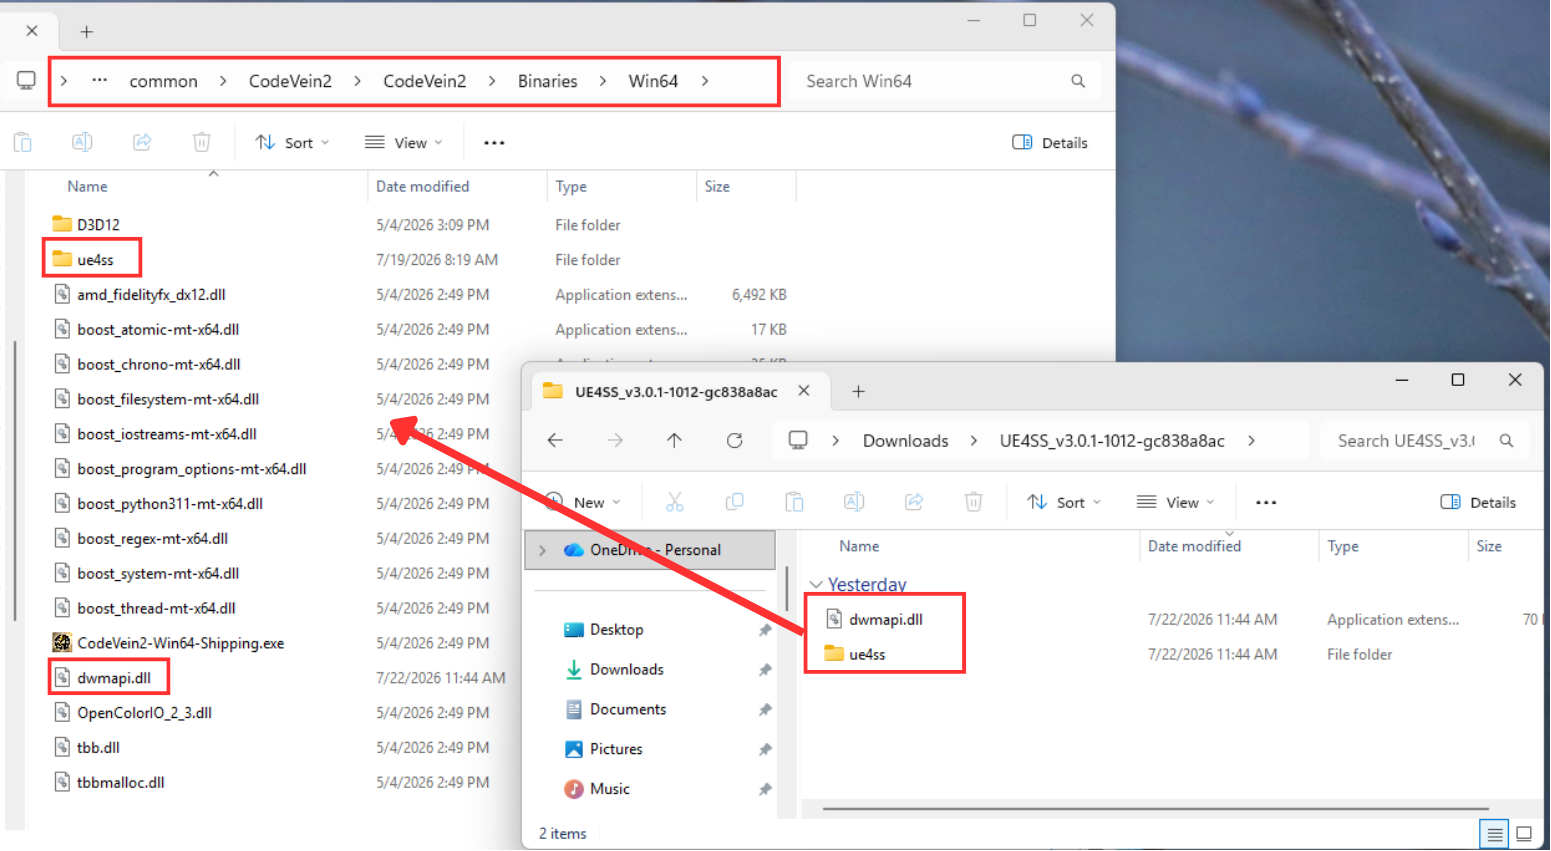
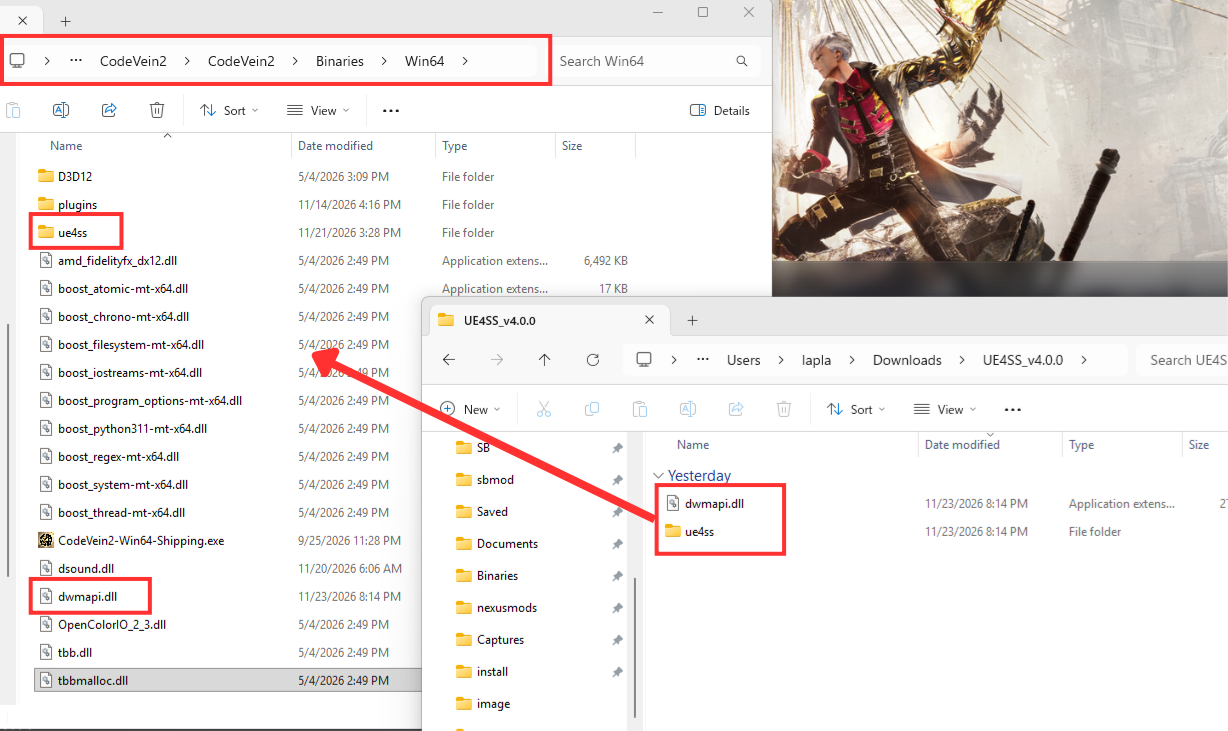
Update guide and troubleshooting for UE4SS release v4.0.0
- Main guide step 1: download UE4SS_v4.0.0.zip from the v4.0.0 release
  instead of the experimental v3.0.1-1012 archive, with new screenshots.
- Troubleshooting: merge the two version checks into a single
  "release v4.0.0" check and renumber the remaining checks.
- Add the v4.0.0 release screenshots and refresh the copy-files image.

diff --git a/docs/troubleshoot/index.html b/docs/troubleshoot/index.html
@@ -188,42 +188,32 @@
   <nav class="toc">
     <h2>Checklist</h2>
     <ol>
-      <li><a href="#check1">Are you using the experimental-latest build of UE4SS?</a></li>
-      <li><a href="#check2">Is the version exactly <code>UE4SS_v3.0.1-1012-gc838a8ac.zip</code>?</a></li>
-      <li><a href="#check3">Are <code>dwmapi.dll</code> and the <code>ue4ss</code> folder in the right place?</a></li>
-      <li><a href="#check4">Is <code>CheatManagerEnablerMod</code> set to <code>0</code> in <code>mods.txt</code>?</a></li>
-      <li><a href="#check5">Does each mod have its own folder under <code>Mods</code>?</a></li>
+      <li><a href="#check1">Have you installed the UE4SS release build v4.0.0?</a></li>
+      <li><a href="#check2">Are <code>dwmapi.dll</code> and the <code>ue4ss</code> folder in the right place?</a></li>
+      <li><a href="#check3">Is <code>CheatManagerEnablerMod</code> set to <code>0</code> in <code>mods.txt</code>?</a></li>
+      <li><a href="#check4">Does each mod have its own folder under <code>Mods</code>?</a></li>
     </ol>
   </nav>
 
   <section class="step" id="check1">
-    <h2><span class="step-num">1</span>Are you using the experimental-latest build?</h2>
+    <h2><span class="step-num">1</span>Have you installed UE4SS release v4.0.0?</h2>
     <ul class="substeps">
-      <li>UE4SS mods for Code Vein II require the <strong>experimental-latest</strong> build of UE4SS. The regular stable release will not work.</li>
-      <li>The experimental builds are listed on the <strong>UE4SS Experimental Release Archive</strong> page:<br>
-        <a class="link" href="https://github.com/UE4SS-RE/RE-UE4SS/releases#release-experimental-latest" target="_blank" rel="noopener">https://github.com/UE4SS-RE/RE-UE4SS/releases#release-experimental-latest</a>
+      <li>UE4SS mods for Code Vein II require the <strong>release</strong> build <strong>v4.0.0</strong>. Check that the archive you installed was <code>UE4SS_v4.0.0.zip</code>, downloaded from the <strong>v4.0.0</strong> release:<br>
+        <a class="link" href="https://github.com/UE4SS-RE/RE-UE4SS/releases" target="_blank" rel="noopener">https://github.com/UE4SS-RE/RE-UE4SS/releases</a>
       </li>
     </ul>
+    <figure>
+      <img src="../images/01A-2_UE4SS_v4_Assets_2026-11-24%20071802.png" alt="The expanded Assets list of the v4.0.0 release on GitHub, with UE4SS_v4.0.0.zip at the top of the list of files.">
+      <figcaption>From the <strong>Assets</strong> list of the v4.0.0 release, the correct file is <code>UE4SS_v4.0.0.zip</code>.</figcaption>
+    </figure>
+    <div class="callout">
+      <strong>Important:</strong> <code>zDEV-UE4SS_v4.0.0.zip</code> and <strong>Source code (zip)</strong> will not work, and neither will an experimental build.
+    </div>
     <p class="answer"><strong>If not:</strong> reinstall by following the <a class="link" href="../">installation guide</a>.</p>
   </section>
 
   <section class="step" id="check2">
-    <h2><span class="step-num">2</span>Is the version exactly v3.0.1-1012?</h2>
-    <ul class="substeps">
-      <li>Check that the archive you installed was <code>UE4SS_v3.0.1-1012-gc838a8ac.zip</code>.</li>
-      <li>Some mods only run on this exact build, so a newer experimental build is not a safe substitute.</li>
-    </ul>
-    <figure>
-      <img src="../images/01-4_download_v1012.png" alt="The expanded Assets list on GitHub, with the file UE4SS_v3.0.1-1012-gc838a8ac.zip highlighted among the other release archives.">
-      <figcaption>From the long list of assets, pick exactly <code>UE4SS_v3.0.1-1012-gc838a8ac.zip</code>.</figcaption>
-    </figure>
-    <div class="callout">
-      <strong>Important:</strong> The Assets list contains hundreds of builds. Download that exact file — not a newer build, and not <strong>Source code (zip)</strong>, which will not work.
-    </div>
-  </section>
-
-  <section class="step" id="check3">
-    <h2><span class="step-num">3</span>Are the UE4SS files in the right folder?</h2>
+    <h2><span class="step-num">2</span>Are the UE4SS files in the right folder?</h2>
     <ul class="substeps">
       <li>Both <code>dwmapi.dll</code> and the <code>ue4ss</code> folder must exist directly inside:<br>
         <code class="path">&lt;game folder&gt;\CodeVein2\Binaries\Win64</code>
@@ -238,8 +228,8 @@
     </div>
   </section>
 
-  <section class="step" id="check4">
-    <h2><span class="step-num">4</span>Is CheatManagerEnablerMod set to 0?</h2>
+  <section class="step" id="check3">
+    <h2><span class="step-num">3</span>Is CheatManagerEnablerMod set to 0?</h2>
     <ul class="substeps">
       <li>Open the following file in Notepad or a similar text editor:<br>
         <code class="path">&lt;game folder&gt;\CodeVein2\Binaries\Win64\ue4ss\Mods\mods.txt</code>
@@ -259,8 +249,8 @@
     </div>
   </section>
 
-  <section class="step" id="check5">
-    <h2><span class="step-num">5</span>Does each mod have its own folder?</h2>
+  <section class="step" id="check4">
+    <h2><span class="step-num">4</span>Does each mod have its own folder?</h2>
     <ul class="substeps">
       <li>Every installed mod needs a folder named after that mod under:<br>
         <code class="path">&lt;game folder&gt;\CodeVein2\Binaries\Win64\ue4ss\Mods</code>

diff --git a/docs/index.html b/docs/index.html
@@ -178,7 +178,7 @@
   <nav class="toc">
     <h2>Contents</h2>
     <ol>
-      <li><a href="#step1">Download UE4SS v3.0.1-1012</a></li>
+      <li><a href="#step1">Download UE4SS v4.0.0</a></li>
       <li><a href="#step2">Open the game folder</a></li>
       <li><a href="#step3">Install UE4SS</a></li>
       <li><a href="#step4">Edit mods.txt and disable CheatManagerEnablerMod</a></li>
@@ -187,42 +187,34 @@
   </nav>
 
   <section class="step" id="step1">
-    <h2><span class="step-num">1</span>Download UE4SS v3.0.1-1012</h2>
+    <h2><span class="step-num">1</span>Download UE4SS v4.0.0</h2>
 
-    <h3 class="substep">1-1. Open the release archive</h3>
+    <h3 class="substep">1-1. Open the release page</h3>
     <ul class="substeps">
-      <li>Go to the following page, then click <strong>UE4SS Experimental Release Archive</strong> in the <strong>Release list</strong> sidebar on the left:<br>
-        <a class="link" href="https://github.com/UE4SS-RE/RE-UE4SS/releases#release-experimental-latest" target="_blank" rel="noopener">https://github.com/UE4SS-RE/RE-UE4SS/releases#release-experimental-latest</a>
+      <li>Go to the following page, then click <strong>v4.0.0</strong> in the sidebar on the left:<br>
+        <a class="link" href="https://github.com/UE4SS-RE/RE-UE4SS/releases" target="_blank" rel="noopener">https://github.com/UE4SS-RE/RE-UE4SS/releases</a>
       </li>
     </ul>
     <figure>
-      <img src="images/01-1_UE4SS-experimental-page-to-release-list.png" alt="The RE-UE4SS releases page on GitHub, with UE4SS Experimental Release Archive highlighted in the Release list sidebar on the left.">
-      <figcaption>On the releases page, click <strong>UE4SS Experimental Release Archive</strong> in the <strong>Release list</strong> sidebar.</figcaption>
+      <img src="images/01A-1_UE4SS_v4.0.0_download_2026-11-24%20071405.png" alt="The RE-UE4SS releases page on GitHub, with v4.0.0 highlighted in the On this page sidebar on the left and the v4.0.0 release shown at the top of the page.">
+      <figcaption>On the releases page, click <strong>v4.0.0</strong> in the sidebar on the left.</figcaption>
     </figure>
 
     <h3 class="substep">1-2. Expand the Assets list</h3>
     <ul class="substeps">
       <li>Scroll down the page and click the <strong>Assets</strong> label to expand the list of downloadable files.</li>
     </ul>
-    <figure>
-      <img src="images/01-2_UE4SS-show-release-archive-and-scroll.png" alt="The UE4SS Experimental Release Archive page on GitHub, with the release title highlighted and a downward arrow indicating to scroll down the page.">
-      <figcaption>Confirm that the <strong>UE4SS Experimental Release Archive</strong> page has opened, then scroll down.</figcaption>
-    </figure>
-    <figure>
-      <img src="images/01-3_UE4SS-click-asset.png" alt="The lower part of the release page, with the collapsed Assets label highlighted.">
-      <figcaption>Click the <strong>Assets</strong> label to expand the list of downloadable files.</figcaption>
-    </figure>
 
     <h3 class="substep">1-3. Download the UE4SS zip file</h3>
     <ul class="substeps">
-      <li>A list of downloadable files will appear. Download <code>UE4SS_v3.0.1-1012-gc838a8ac.zip</code>.</li>
+      <li>A list of downloadable files will appear. Download <code>UE4SS_v4.0.0.zip</code>.</li>
     </ul>
     <figure>
-      <img src="images/01-4_download_v1012.png" alt="The expanded Assets list on GitHub, with the file UE4SS_v3.0.1-1012-gc838a8ac.zip highlighted among the other release archives.">
-      <figcaption>From the long list of assets, pick exactly <code>UE4SS_v3.0.1-1012-gc838a8ac.zip</code>.</figcaption>
+      <img src="images/01A-2_UE4SS_v4_Assets_2026-11-24%20071802.png" alt="The expanded Assets list of the v4.0.0 release on GitHub, with UE4SS_v4.0.0.zip at the top of the list of files.">
+      <figcaption>From the <strong>Assets</strong> list, download <code>UE4SS_v4.0.0.zip</code>.</figcaption>
     </figure>
     <div class="callout">
-      <strong>Important:</strong> The Assets list contains hundreds of builds. This guide is written for <code>UE4SS_v3.0.1-1012-gc838a8ac.zip</code>, so download that exact file — not a newer build, and not <strong>Source code (zip)</strong>, which will not work.
+      <strong>Important:</strong> Download exactly <code>UE4SS_v4.0.0.zip</code> &mdash; not <code>zDEV-UE4SS_v4.0.0.zip</code>, and not <strong>Source code (zip)</strong>, neither of which will work.
     </div>
   </section>
 
